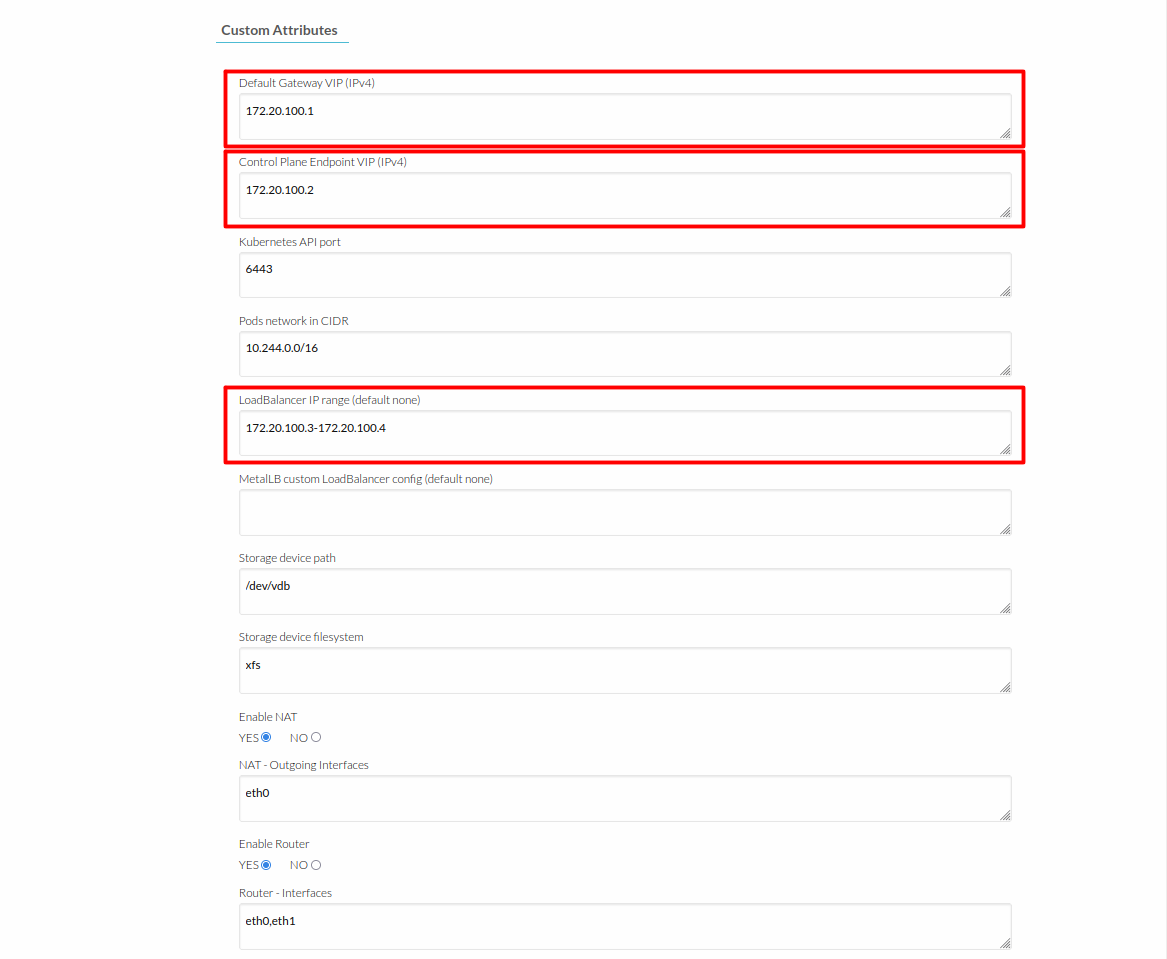
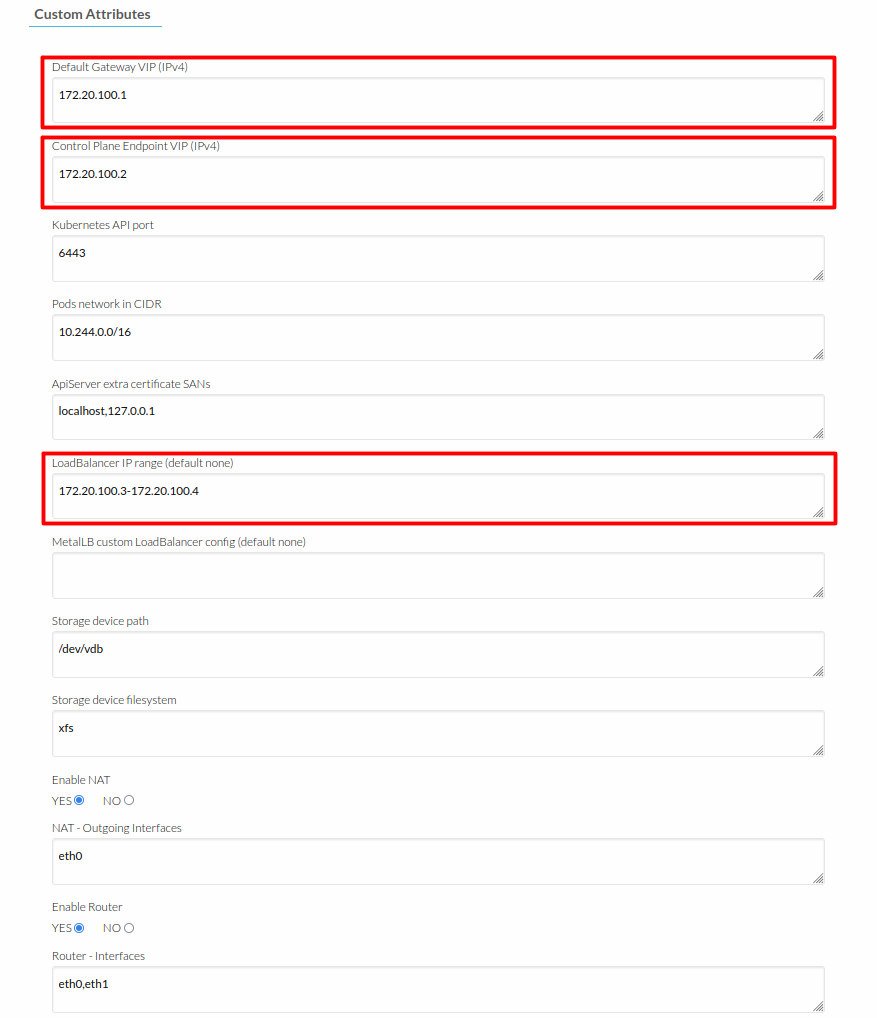
M #-: Add extra SANs, SSH tunnel (#32)

diff --git a/source/service/kubernetes_service.rst b/source/service/kubernetes_service.rst
@@ -180,22 +180,23 @@ Custom attributes
 
 The service appliance is designed to use couple of `custom attributes <https://docs.opennebula.io/6.2/management_and_operations/multivm_service_management/appflow_use_cli.html#using-custom-attributes>`_ to provide easier configuration across multiple VM templates.
 
-====================================== ========= ==================== ========= ========================= ===========
-Parameter                              Mandatory Default              Stage     Role                      Description
-====================================== ========= ==================== ========= ========================= ===========
-``ONEAPP_VROUTER_ETH1_VIP0``                                          configure vnf master worker storage Default Gateway VIP (IPv4)
-``ONEAPP_VNF_LB0_IP``                  ``YES``                        configure vnf master worker storage Control Plane Endpoint VIP (IPv4)
-``ONEAPP_K8S_PORT``                              ``6443``             configure master worker storage     Kubernetes API port on which nodes communicate
-``ONEAPP_K8S_PODS_NETWORK``                      ``10.244.0.0/16``    configure master worker storage     Kubernetes pod network - pods will have IP from this range
-``ONEAPP_K8S_LOADBALANCER_RANGE``                                     configure master worker storage     LoadBalancer IP range (IPv4-IPv4)
-``ONEAPP_K8S_LOADBALANCER_CONFIG``                                    configure master worker storage     Custom LoadBalancer config (encoded in Base64)
-``ONEAPP_STORAGE_DEVICE``              ``YES``   ``/dev/vdb``         configure storage                   Attached block device used by Longhorn to store Persistent Volume (PV) data
-``ONEAPP_STORAGE_FILESYSTEM``                    ``xfs``              configure storage                   Filesystem type to init Longhorn storage device
-``ONEAPP_VNF_NAT4_ENABLED``                      ``YES``              configure vnf                       Enable NAT for the whole Kubernetes cluster
-``ONEAPP_VNF_NAT4_INTERFACES_OUT``               ``eth0``             configure vnf                       NAT - Outgoing (public) interfaces
-``ONEAPP_VNF_ROUTER4_ENABLED``                   ``YES``              configure vnf                       Enable IPv4 forwarding for selected NICs
-``ONEAPP_VNF_ROUTER4_INTERFACES``                ``eth0,eth1``        configure vnf                       IPv4 Router - NICs selected for IPv4 forwarding
-====================================== ========= ==================== ========= ========================= ===========
+====================================== ========= ======================= ========= ========================= ===========
+Parameter                              Mandatory Default                 Stage     Role                      Description
+====================================== ========= ======================= ========= ========================= ===========
+``ONEAPP_VROUTER_ETH1_VIP0``                                             configure vnf master worker storage Default Gateway VIP (IPv4)
+``ONEAPP_VNF_LB0_IP``                  ``YES``                           configure vnf master worker storage Control Plane Endpoint VIP (IPv4)
+``ONEAPP_K8S_PORT``                              ``6443``                configure master worker storage     Kubernetes API port on which nodes communicate
+``ONEAPP_K8S_PODS_NETWORK``                      ``10.244.0.0/16``       configure master worker storage     Kubernetes pod network - pods will have IP from this range
+``ONEAPP_K8S_EXTRA_SANS``                        ``localhost,127.0.0.1`` configure master                    ApiServer extra certificate SANs
+``ONEAPP_K8S_LOADBALANCER_RANGE``                                        configure master worker storage     LoadBalancer IP range (IPv4-IPv4)
+``ONEAPP_K8S_LOADBALANCER_CONFIG``                                       configure master worker storage     Custom LoadBalancer config (encoded in Base64)
+``ONEAPP_STORAGE_DEVICE``              ``YES``   ``/dev/vdb``            configure storage                   Attached block device used by Longhorn to store Persistent Volume (PV) data
+``ONEAPP_STORAGE_FILESYSTEM``                    ``xfs``                 configure storage                   Filesystem type to init Longhorn storage device
+``ONEAPP_VNF_NAT4_ENABLED``                      ``YES``                 configure vnf                       Enable NAT for the whole Kubernetes cluster
+``ONEAPP_VNF_NAT4_INTERFACES_OUT``               ``eth0``                configure vnf                       NAT - Outgoing (public) interfaces
+``ONEAPP_VNF_ROUTER4_ENABLED``                   ``YES``                 configure vnf                       Enable IPv4 forwarding for selected NICs
+``ONEAPP_VNF_ROUTER4_INTERFACES``                ``eth0,eth1``           configure vnf                       IPv4 Router - NICs selected for IPv4 forwarding
+====================================== ========= ======================= ========= ========================= ===========
 
 .. _k8s_storage_role:
 
@@ -554,8 +555,8 @@ Destroy the example application:
 Use Kubernetes remotely
 =======================
 
-Connect to Kubernetes API
--------------------------
+Connect to Kubernetes API (directly)
+------------------------------------
 
 To control the Kubernetes cluster remotely, you need to have the ``kubectl`` CLI tool installed on your system (workstation, laptop). Follow the official `installation guide <https://kubernetes.io/docs/tasks/tools/install-kubectl/>`_. When finished, you can validate the correct installation by running:
 
@@ -581,10 +582,80 @@ After this you should be able to manage all resources from the remote location v
     - env. variable, e.g. ``KUBECONFIG=${HOME}/admin.conf kubectl get nodes``
     - CLI argument, e.g. ``kubectl --kubeconfig=${HOME}/admin.conf get nodes``
 
+Connect to Kubernetes API (via SSH)
+-----------------------------------
+
+By default the context parameter ``ONEAPP_K8S_EXTRA_SANS`` is set to **localhost,127.0.0.1** which allows to access Kubernetes API via SSH tunnels.
+
+To create a SSH tunnel through a VNF node you need to allow ``AllowTcpForwarding yes`` and (optionally) ``AllowAgentForwarding yes`` inside the **/etc/ssh/sshd_config** file on VNF nodes:
+
+.. prompt:: text [vnf]# auto
+
+    [vnf]# gawk -i inplace -f- /etc/ssh/sshd_config <<'EOF'
+    BEGIN { update = "AllowTcpForwarding yes" }
+    /^#*AllowTcpForwarding / { $0 = update; found = 1 }
+    { print }
+    END { if (!found) print update >>FILENAME }
+    EOF
+
+.. prompt:: text [vnf]# auto
+
+    [vnf]# gawk -i inplace -f- /etc/ssh/sshd_config <<'EOF'
+    BEGIN { update = "AllowAgentForwarding yes" }
+    /^#*AllowAgentForwarding / { $0 = update; found = 1 }
+    { print }
+    END { if (!found) print update >>FILENAME }
+    EOF
+
+After successful config update reload the sshd service:
+
+.. prompt:: text [vnf]# auto
+
+    [vnf]# rc-service sshd reload
+    * Reloading sshd ... [ ok ]
+
+We recommend using the ``ProxyCommand`` SSH feature, for example:
+
+To download the **/etc/kubernetes/admin.conf** (kubeconfig) file:
+
+.. prompt:: text [remote]$ auto
+
+   [remote]$ mkdir -p ~/.kube/
+   [remote]$ scp -o ProxyCommand='ssh -A root@10.2.11.200 -W %h:%p' root@172.20.1.101:/etc/kubernetes/admin.conf ~/.kube/config
+
+Where ``10.2.11.200`` is a **public** address of a VNF node, ``172.20.1.101`` is a **private** address of a master node (inside internal VNET).
+
+To create SSH tunnel, forward ``6443`` port and query cluster nodes:
+
+.. prompt:: text [remote]$ auto
+
+   [remote]$ ssh -o ProxyCommand='ssh -A root@10.2.11.200 -W %h:%p' -L 6443:localhost:6443 root@172.20.1.101
+
+..and then in another terminal:
+
+.. prompt:: text [remote]$ auto
+
+   [remote]$ kubectl get nodes
+   NAME                      STATUS   ROLES                  AGE    VERSION
+   onekube-ip-172-20-1-101   Ready    control-plane,master   13m    v1.23.6
+   onekube-ip-172-20-1-102   Ready    <none>                 11m    v1.23.6
+   onekube-ip-172-20-1-103   Ready    <none>                 11m    v1.23.6
+
+.. important::
+
+    You must make sure that the cluster endpoint inside the kubeconfig file (**~/.kube/config**) points to **localhost**, for example:
+
+    .. prompt:: text [remote]$ auto
+
+        gawk -i inplace -f- ~/.kube/config <<'EOF'
+        /^    server: / { $0 = "    server: https://localhost:6443" }
+        { print }
+        EOF
+
 .. _k8s_certificate_sans:
 
-Update Kubernetes PKI to use custom certificate SANs
-----------------------------------------------------
+Update Kubernetes PKI to use custom certificate SANs (in an existing cluster)
+-----------------------------------------------------------------------------
 
 If you intend to connect to Kubernetes API using SSH tunnels you will probably need to add/update certificate **Subject Alternative Names (SANs)**. Here's how:
 
